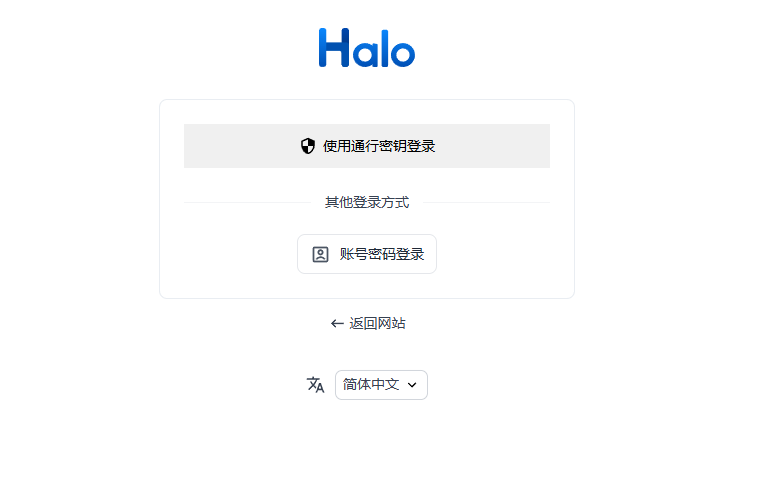
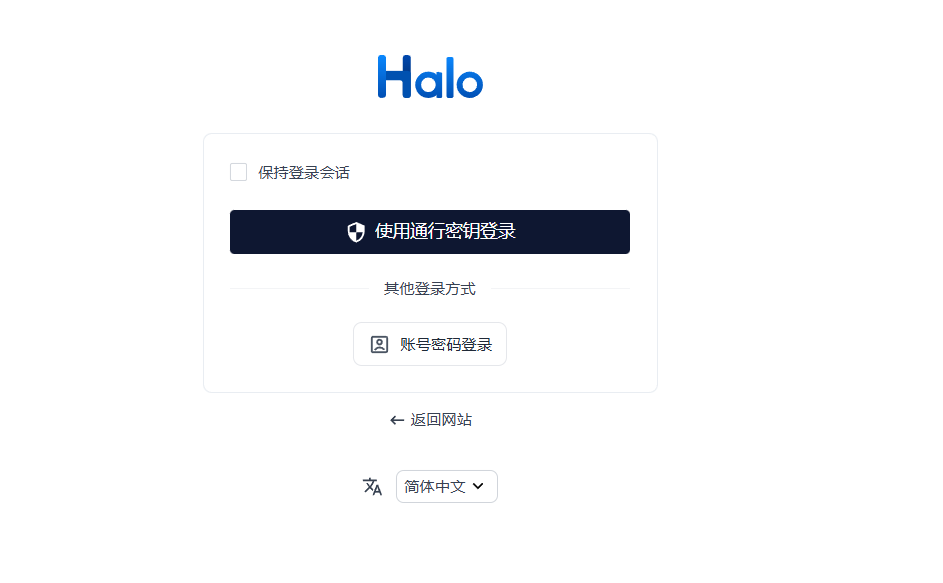
feat: 集成登录增强器并优化 UI 交互

diff --git a/src/main/resources/templates/login_passkey.html b/src/main/resources/templates/login_passkey.html
@@ -1,140 +1,163 @@
 <!DOCTYPE html>
-<html xmlns:th="http://www.thymeleaf.org"><head><meta charset="utf-8"></head><head></head><body>
-<div th:fragment="form">
-    <div class="form-item">
-        <button type="button" id="passkey-login-btn">
-            <svg viewBox="0 0 24 24" fill="currentColor" width="18" height="18" style="vertical-align: middle; margin-right: 6px;">
-                <path d="M12 1L3 5v6c0 5.55 3.84 10.74 9 12 5.16-1.26 9-6.45 9-12V5l-9-4zm0 10.99h7c-.53 4.12-3.28 7.79-7 8.94V12H5V6.3l7-3.11v8.8z"></path>
-            </svg>
-            使用通行密钥登录
-        </button>
-    </div>
+<html xmlns:th="http://www.thymeleaf.org">
+    <head>
+        <meta charset="utf-8" />
+        <meta name="viewport" content="width=device-width, initial-scale=1.0" />
+    </head>
+    <body>
+        <div th:fragment="form">
+            <div class="form-item-compact">
+                <input type="checkbox" id="remember-me" name="remember-me" value="true" />
+                <label for="remember-me">保持登录会话</label>
+            </div>
+            <div id="passkey-error" class="alert alert-error" role="alert" style="display: none"></div>
+            <div id="passkey-warn" class="alert" role="alert" style="display: none">您的浏览器不支持通行密钥</div>
 
-    <div id="passkey-error" class="alert alert-error" role="alert" style="display: none;"></div>
-    <div id="passkey-warn" class="alert" role="alert" style="display: none;">您的浏览器不支持通行密钥</div>
+            <script th:inline="javascript">
+                (function () {
+                    var API = "/apis/api.passkey.halo.run/v1alpha1";
+                    var errDiv = document.getElementById("passkey-error");
+                    var warnDiv = document.getElementById("passkey-warn");
+                    var origin = window.location.origin;
 
-    <style>
-        /* 隐藏表单默认的登录按钮和记住我选项 */
-        #login-form > .form-item:last-of-type,
-        #login-form > .form-item-compact {
-            display: none !important;
-        }
-        #passkey-login-btn {
-            width: 100%;
-            display: flex;
-            align-items: center;
-            justify-content: center;
-            padding: 12px 16px;
-            font-size: 14px;
-            min-height: 44px;
-            cursor: pointer;
-        }
-    </style>
-
-    <script th:inline="javascript">
-        (function() {
-            var API = '/apis/api.passkey.halo.run/v1alpha1';
-            var btn = document.getElementById('passkey-login-btn');
-            var errDiv = document.getElementById('passkey-error');
-            var warnDiv = document.getElementById('passkey-warn');
-            var origin = window.location.origin;
-
-            if (!window.PublicKeyCredential) {
-                warnDiv.style.display = 'block';
-                btn.disabled = true;
-                btn.style.opacity = '0.5';
-                return;
-            }
-
-            function b64e(buf) {
-                var bytes = new Uint8Array(buf);
-                var s = '';
-                for (var i = 0; i < bytes.length; i++) s += String.fromCharCode(bytes[i]);
-                return btoa(s).replace(/\+/g, '-').replace(/\//g, '_').replace(/=/g, '');
-            }
-
-            function b64d(str) {
-                var b = str.replace(/-/g, '+').replace(/_/g, '/');
-                b = b + '='.repeat((4 - b.length % 4) % 4);
-                var bin = atob(b);
-                var bytes = new Uint8Array(bin.length);
-                for (var i = 0; i < bin.length; i++) bytes[i] = bin.charCodeAt(i);
-                return bytes.buffer;
-            }
-
-            function showErr(msg) {
-                errDiv.textContent = msg;
-                errDiv.style.display = 'block';
-            }
-
-            btn.onclick = async function(e) {
-                e.preventDefault();
-                errDiv.style.display = 'none';
-                btn.disabled = true;
-                var originalHTML = btn.innerHTML;
-                btn.innerHTML = '<span>正在验证...</span>';
-
-                try {
-                    var res1 = await fetch(API + '/authentication/options', {
-                        method: 'POST',
-                        headers: {'Content-Type': 'application/json'},
-                        body: JSON.stringify({ origin: origin }),
-                        credentials: 'include'
-                    });
-                    if (!res1.ok) {
-                        var err = await res1.json().catch(function() { return {}; });
-                        throw new Error(err.message || '无法获取认证选项');
+                    // 等待 DOM 加载完成
+                    if (document.readyState === "loading") {
+                        document.addEventListener("DOMContentLoaded", init);
+                    } else {
+                        init();
                     }
-                    var opts = await res1.json();
 
-                    var cred = await navigator.credentials.get({
-                        publicKey: {
-                            challenge: b64d(opts.challenge),
-                            rpId: opts.rpId,
-                            timeout: opts.timeout,
-                            userVerification: opts.userVerification,
-                            allowCredentials: opts.allowCredentials && opts.allowCredentials.length > 0
-                                ? opts.allowCredentials.map(function(id) { return {type: 'public-key', id: b64d(id)}; })
-                                : undefined
+                    function init() {
+                        // 查找登录表单的提交按钮
+                        var submitBtn = document.querySelector('.halo-form button[type="submit"]');
+                        if (!submitBtn) return;
+
+                        // 检查浏览器是否支持 WebAuthn
+                        if (!window.PublicKeyCredential) {
+                            warnDiv.style.display = "block";
+                            submitBtn.disabled = true;
+                            submitBtn.style.opacity = "0.5";
+                            return;
                         }
-                    });
 
-                    if (!cred) throw new Error('认证已取消');
+                        // 修改按钮文字，保持原有样式
+                        submitBtn.innerHTML =
+                            '<svg viewBox="0 0 24 24" fill="currentColor" width="18" height="18" style="vertical-align: middle; margin-right: 6px"><path d="M12 1L3 5v6c0 5.55 3.84 10.74 9 12 5.16-1.26 9-6.45 9-12V5l-9-4zm0 10.99h7c-.53 4.12-3.28 7.79-7 8.94V12H5V6.3l7-3.11v8.8z"></path></svg>使用通行密钥登录';
 
-                    var res2 = await fetch(API + '/authentication/verify', {
-                        method: 'POST',
-                        headers: {'Content-Type': 'application/json'},
-                        body: JSON.stringify({
-                            origin: origin,
-                            sessionId: opts.sessionId,
-                            credentialId: b64e(cred.rawId),
-                            authenticatorData: b64e(cred.response.authenticatorData),
-                            clientDataJSON: b64e(cred.response.clientDataJSON),
-                            signature: b64e(cred.response.signature),
-                            userHandle: cred.response.userHandle ? b64e(cred.response.userHandle) : null
-                        }),
-                        credentials: 'include'
-                    });
-
-                    if (!res2.ok) {
-                        var e = await res2.json().catch(function() { return {}; });
-                        throw new Error(e.message || '认证失败');
+                        // 保持 type="submit" 以维持样式，但阻止默认表单提交行为
+                        submitBtn.addEventListener('click', function(e) {
+                            e.preventDefault();
+                            handlePasskeyLogin(e);
+                        });
                     }
 
-                    var params = new URLSearchParams(window.location.search);
-                    window.location.href = params.get('redirect_uri') || '/uc';
-                } catch (e) {
-                    if (e.name === 'NotAllowedError') showErr('认证已取消或被拒绝');
-                    else if (e.name === 'AbortError') showErr('操作已取消');
-                    else if (e.name === 'TimeoutError' || (e.message && e.message.includes('timed out'))) showErr('操作超时，请重试');
-                    else showErr(e.message || '认证失败');
-                    btn.disabled = false;
-                    btn.innerHTML = originalHTML;
-                }
-            };
-        })();
-    </script>
-</div>
+                    function b64e(buf) {
+                        var bytes = new Uint8Array(buf);
+                        var s = "";
+                        for (var i = 0; i < bytes.length; i++) s += String.fromCharCode(bytes[i]);
+                        return btoa(s).replace(/\+/g, "-").replace(/\//g, "_").replace(/=/g, "");
+                    }
 
+                    function b64d(str) {
+                        var b = str.replace(/-/g, "+").replace(/_/g, "/");
+                        b = b + "=".repeat((4 - (b.length % 4)) % 4);
+                        var bin = atob(b);
+                        var bytes = new Uint8Array(bin.length);
+                        for (var i = 0; i < bin.length; i++) bytes[i] = bin.charCodeAt(i);
+                        return bytes.buffer;
+                    }
 
-</body></html>
+                    function showErr(msg) {
+                        errDiv.textContent = msg;
+                        errDiv.style.display = "block";
+                    }
+
+                    async function handlePasskeyLogin(e) {
+                        e.preventDefault();
+                        errDiv.style.display = "none";
+
+                        var submitBtn = e.target.closest("button");
+                        submitBtn.disabled = true;
+                        var originalHTML = submitBtn.innerHTML;
+                        submitBtn.innerHTML = "<span>正在验证...</span>";
+
+                        try {
+                            var res1 = await fetch(API + "/authentication/options", {
+                                method: "POST",
+                                headers: { "Content-Type": "application/json" },
+                                body: JSON.stringify({ origin: origin }),
+                                credentials: "include",
+                            });
+                            if (!res1.ok) {
+                                var err = await res1.json().catch(function () {
+                                    return {};
+                                });
+                                throw new Error(err.message || "无法获取认证选项");
+                            }
+                            var opts = await res1.json();
+
+                            var cred = await navigator.credentials.get({
+                                publicKey: {
+                                    challenge: b64d(opts.challenge),
+                                    rpId: opts.rpId,
+                                    timeout: opts.timeout,
+                                    userVerification: opts.userVerification,
+                                    allowCredentials:
+                                        opts.allowCredentials && opts.allowCredentials.length > 0
+                                            ? opts.allowCredentials.map(function (id) {
+                                                  return { type: "public-key", id: b64d(id) };
+                                              })
+                                            : undefined,
+                                },
+                            });
+
+                            if (!cred) throw new Error("认证已取消");
+
+                            // 构建验证 URL，包含 remember-me 参数
+                            var verifyUrl = API + "/authentication/verify";
+                            var rememberMe = document.getElementById("remember-me");
+                            if (rememberMe && rememberMe.checked) {
+                                verifyUrl += "?remember-me=true";
+                            }
+
+                            var res2 = await fetch(verifyUrl, {
+                                method: "POST",
+                                headers: { "Content-Type": "application/json" },
+                                body: JSON.stringify({
+                                    origin: origin,
+                                    sessionId: opts.sessionId,
+                                    credentialId: b64e(cred.rawId),
+                                    authenticatorData: b64e(cred.response.authenticatorData),
+                                    clientDataJSON: b64e(cred.response.clientDataJSON),
+                                    signature: b64e(cred.response.signature),
+                                    userHandle: cred.response.userHandle ? b64e(cred.response.userHandle) : null,
+                                }),
+                                credentials: "include",
+                            });
+
+                            if (!res2.ok) {
+                                var e = await res2.json().catch(function () {
+                                    return {};
+                                });
+                                throw new Error(e.message || "认证失败");
+                            }
+
+                            var params = new URLSearchParams(window.location.search);
+                            var redirectUri = params.get("redirect_uri") || "/uc";
+
+                            window.location.href = redirectUri;
+                        } catch (e) {
+                            if (e.name === "NotAllowedError") showErr("认证已取消或被拒绝");
+                            else if (e.name === "AbortError") showErr("操作已取消");
+                            else if (e.name === "TimeoutError" || (e.message && e.message.includes("timed out")))
+                                showErr("操作超时，请重试");
+                            else showErr(e.message || "认证失败");
+                            submitBtn.disabled = false;
+                            submitBtn.innerHTML = originalHTML;
+                        }
+                    }
+                })();
+            </script>
+        </div>
+    </body>
+</html>

diff --git a/src/main/java/top/ilay/authpasskey/PasskeyEndpoint.java b/src/main/java/top/ilay/authpasskey/PasskeyEndpoint.java
@@ -19,6 +19,7 @@ import org.springframework.web.reactive.function.server.ServerResponse;
 import reactor.core.publisher.Mono;
 import run.halo.app.core.extension.endpoint.CustomEndpoint;
 import run.halo.app.extension.GroupVersion;
+import run.halo.app.security.LoginHandlerEnhancer;
 
 /**
  * Passkey API endpoints for WebAuthn registration and authentication.
@@ -35,6 +36,7 @@ public class PasskeyEndpoint implements CustomEndpoint {
     private final PasskeyCredentialService credentialService;
     private final ReactiveUserDetailsService userDetailsService;
     private final ServerSecurityContextRepository securityContextRepository;
+    private final LoginHandlerEnhancer loginHandlerEnhancer;
 
     @Override
     public RouterFunction<ServerResponse> endpoint() {
@@ -140,7 +142,9 @@ public class PasskeyEndpoint implements CustomEndpoint {
                         SecurityContext securityContext = new SecurityContextImpl(authentication);
                         // Save security context to establish session
                         return securityContextRepository.save(request.exchange(), securityContext)
-                            .then(Mono.just(credential));
+                            // Call login handler enhancer for remember-me, device management, etc.
+                            .then(loginHandlerEnhancer.onLoginSuccess(request.exchange(), authentication))
+                            .thenReturn(credential);
                     });
             })
             .flatMap(credential -> ServerResponse.ok()
